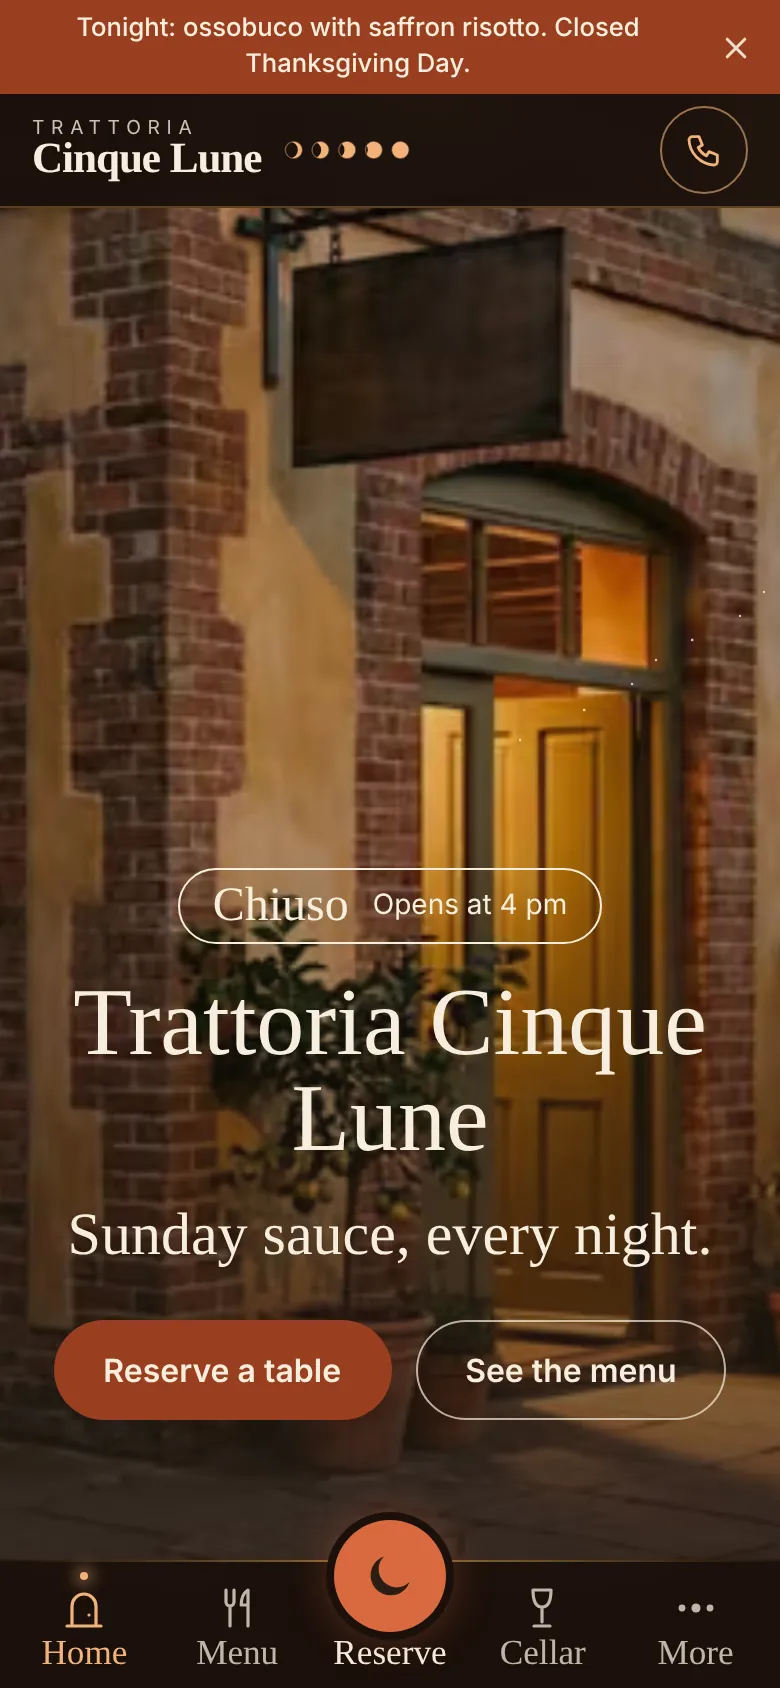
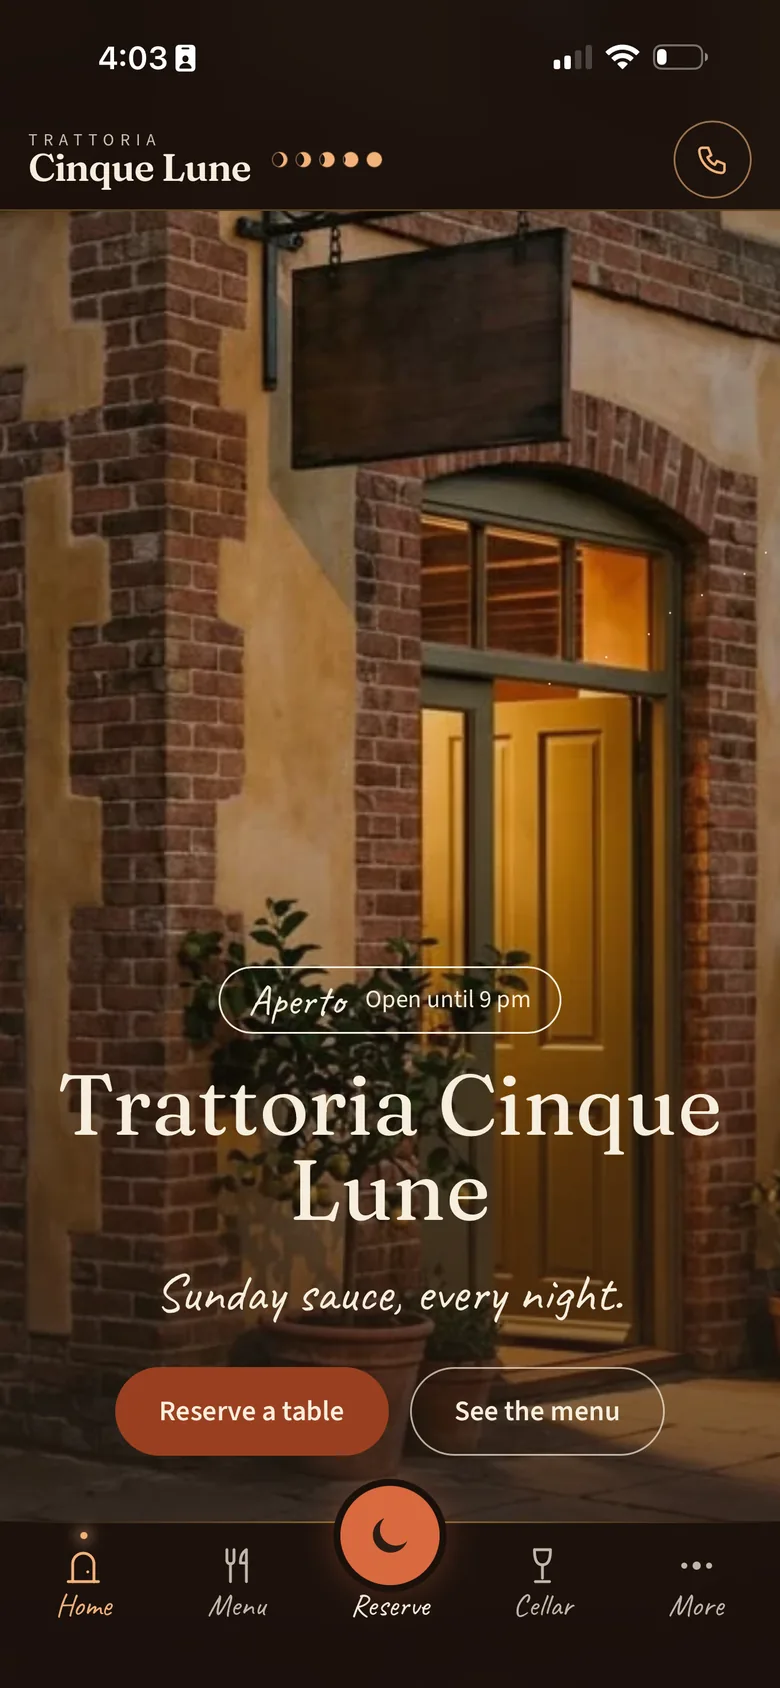
Studio hero: real phone screenshots from Reytek
Claude-Session: https://claude.ai/code/session_01PAKh5cWWJ7vevvf8RnApQi

diff --git a/studio/components/Hero.tsx b/studio/components/Hero.tsx
@@ -8,8 +8,8 @@ type Device = { slug: string; name: string; kind: string; src: string; href: str
 
 const DEVICES: Device[] = [
   { slug: "funkharp", name: "Funkharp", kind: "Band", src: "/work/funkharp-home.webp", href: "#work", alt: "Funkharp's home page on a phone: St. Augustine, FL, the band name in script, Hear the singles and Shows buttons, and a photo of a harmonica on piano keys" },
-  { slug: "reytek", name: "Reytek", kind: "My artist site", src: "/work/reytek-home.webp", href: "https://reytek1201.com/?ref=launchgrid", alt: "Reytek's home page on a phone: a dark screen with a ring of small text, the name REYTEK, and Enter with sound and Enter silent buttons" },
-  { slug: "cinque-lune", name: "Cinque Lune", kind: "Demo restaurant", src: "/work/cinque-lune-home.webp", href: "https://cinque-lune-demo.vercel.app", alt: "Trattoria Cinque Lune's home page on a phone: a brick corner restaurant at dusk, a specials banner, and Reserve a table and See the menu buttons" },
+  { slug: "reytek", name: "Reytek", kind: "My artist site", src: "/work/reytek-home.webp", href: "https://reytek1201.com/?ref=launchgrid", alt: "Reytek's home page on a phone: a black-and-white portrait inside a glowing cyan ring, wrapped in swirling light trails, with the name REYTEK below" },
+  { slug: "cinque-lune", name: "Cinque Lune", kind: "Demo restaurant", src: "/work/cinque-lune-home.webp", href: "https://cinque-lune-demo.vercel.app", alt: "Trattoria Cinque Lune's home page on a phone: a brick restaurant entrance with warm light in the doorway, an Open until 9 pm sign, and Reserve a table and See the menu buttons" },
 ];
 
 const COUNT = ["T−3", "T−2", "T−1", "Lift-off", "All three live"];
